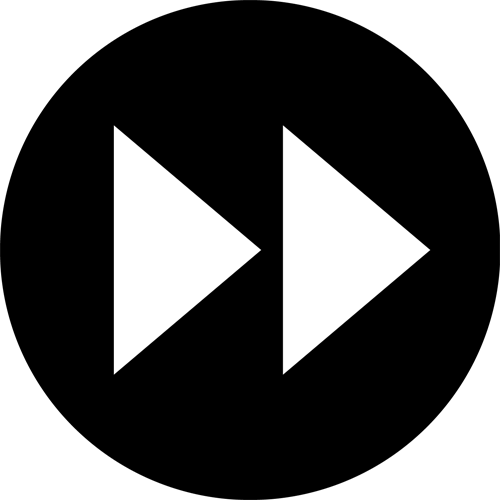
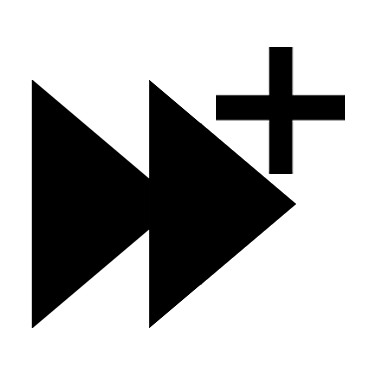
changin buttons

diff --git a/videolec.js b/videolec.js
@@ -798,8 +798,8 @@ var Grapher = function() {
         $('#slider .ui-slider-handle').css('background','#0b0');
         root.find('.video').css('border','1px solid #eee');
         
-        $('#pauseIcon').attr("src",'play_big.png');
-        fadeSign('pause_big.png');
+        $('#pauseIcon').attr("src",'play.png');
+        fadeSign('pause.png');
         
         window.cancelAnimationFrame(draw);
         draw = window.requestAnimationFrame(graphData);
@@ -814,8 +814,8 @@ var Grapher = function() {
         $('#slider .ui-slider-handle').css('background','#f55');
         root.find('.video').css('border','1px solid #f88');
         
-        $('#pauseIcon').attr("src",'pause_big.png');
-        fadeSign('play_big.png');
+        $('#pauseIcon').attr("src",'pause.png');
+        fadeSign('play.png');
         
         window.cancelAnimationFrame(draw);
     }
@@ -869,7 +869,6 @@ var Grapher = function() {
         $('.buttons button').css('height',smallButtonWidths);
         $('.buttons button').css('background-size',smallButtonWidths-4);
         $('.buttons button').css('margin-top',smallButtonWidths/2-2);
-        $('.buttons button').css('border-radius',smallButtonWidths);
         $('.speedUp').css('margin-left',smallButtonWidths+4);
         
         //set volume button and slider
@@ -1088,30 +1087,19 @@ var Grapher = function() {
     }
     
     //controls displays of the speed buttons (fast forward and slow down)
-    //green when it's < or > than 1, none when it ==1, red when <0
+    //green when it's < or > than 1, none when it ==1
     //also displays total speed on the screen
     function speedIndicators(){
-        $('.speedDisplay').text(Math.round(audio.playbackRate/1*10)/10 +" x");
+        $('.speedDisplay').text(Math.round(audio.playbackRate/1*100)/100 +" x");
         if (audio.playbackRate>1){
-            $('.speedUp').css('border-color','#0e9300');
             $('.speedUp').css('opacity','.7');
-            $('.slowDown').css('border-color','');
             $('.slowDown').css('opacity','');
-        } else if (audio.playbackRate < 1 & audio.playbackRate > 0){
-            $('.slowDown').css('border-color','#0e9300');
+        } else if (audio.playbackRate < 1){
             $('.slowDown').css('opacity','.7');
-            $('.speedUp').css('border-color','');
-            $('.speedUp').css('opacity','');
-        } else if (audio.playbackRate < 0){
-            $('.slowDown').css('border-color','#f44');
-            $('.slowDown').css('opacity','.7');
-            $('.speedUp').css('border-color','');
             $('.speedUp').css('opacity','');
         } else {
             $('.speedDisplay').text("");
-            $('.slowDown').css('border-color','');
             $('.slowDown').css('opacity','');
-            $('.speedUp').css('border-color','');
             $('.speedUp').css('opacity','');
         }
     }
@@ -1443,13 +1431,23 @@ var Grapher = function() {
         
         //fast forward & slow down
         root.find('.speedUp').on('click', function() {
-            audio.playbackRate += 0.1;
-            audio.defaultPlaybackRate += 0.1;
+            if ( audio.playbackRate < 1 ){
+                audio.playbackRate += .25;
+                audio.defaultPlaybackRate += .25;
+            } else if (audio.playbackRate < 5){
+                audio.playbackRate += .5;
+                audio.defaultPlaybackRate += .5;
+            }
             speedIndicators();
         });
         root.find('.slowDown').on('click', function() {
-            audio.playbackRate -= 0.1;
-            audio.defaultPlaybackRate -= 0.1;
+            if (audio.playbackRate > 1){
+                audio.playbackRate -= .5;
+                audio.defaultPlaybackRate -= .5;
+            } else if ( audio.playbackRate > 0){
+                audio.playbackRate -= .25;
+                audio.defaultPlaybackRate -= .25;
+            }
             speedIndicators();
         });
         

diff --git a/style.css b/style.css
@@ -86,18 +86,15 @@ input[type='button']{
 
 input[type='button']:hover{
     border:0px #aaa solid;
-    border-radius:25px;
     opacity: .7;
 }
 
 input[type='button']:active{
     border:0px #444 solid;
-    border-radius:25px;
     opacity:1;
 }
 input[type='button']:focus{
     border:0px #444 solid;
-    border-radius:25px;
     opacity:1;
 }
 
@@ -146,7 +143,8 @@ input[type='button']:focus{
     background-repeat:no-repeat;
     position:absolute;
     opacity:0.5;
-    border: 2px #fff solid;
+    border: 0;
+    border-radius:0;
     background-color:transparent;
 }
 
